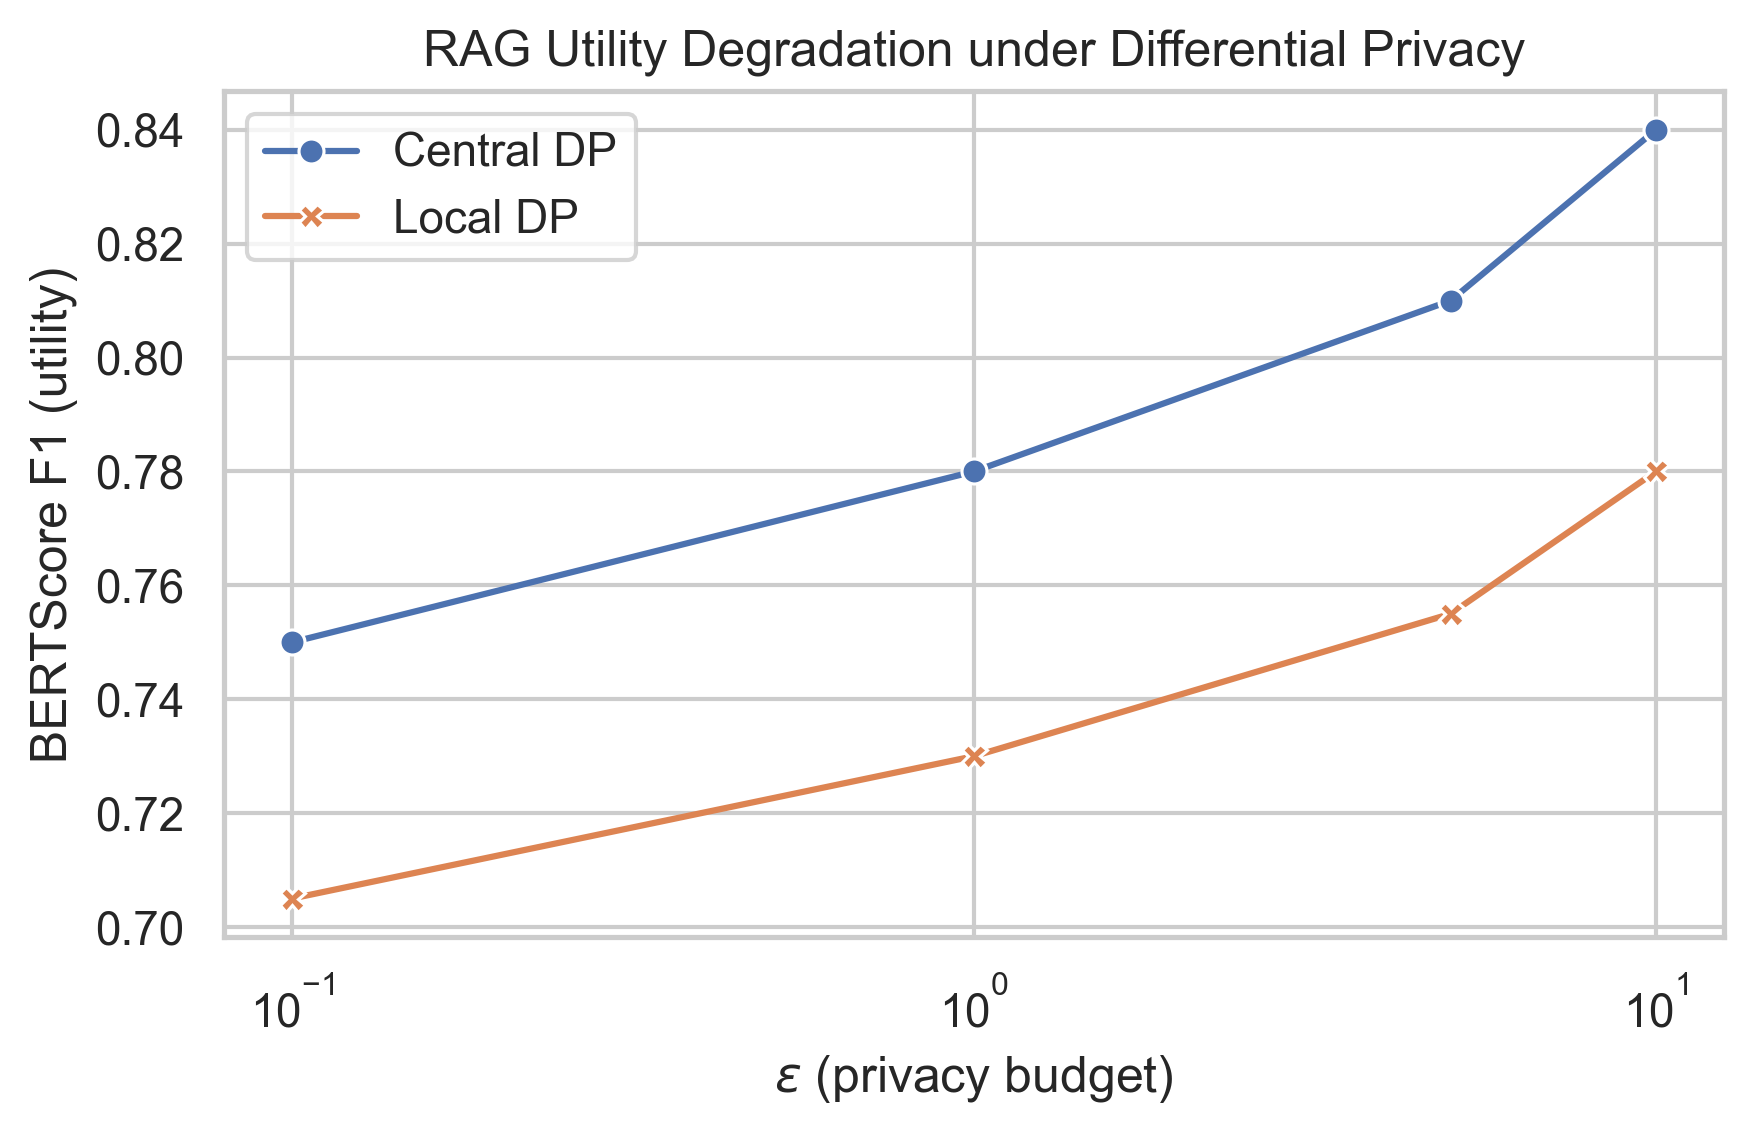
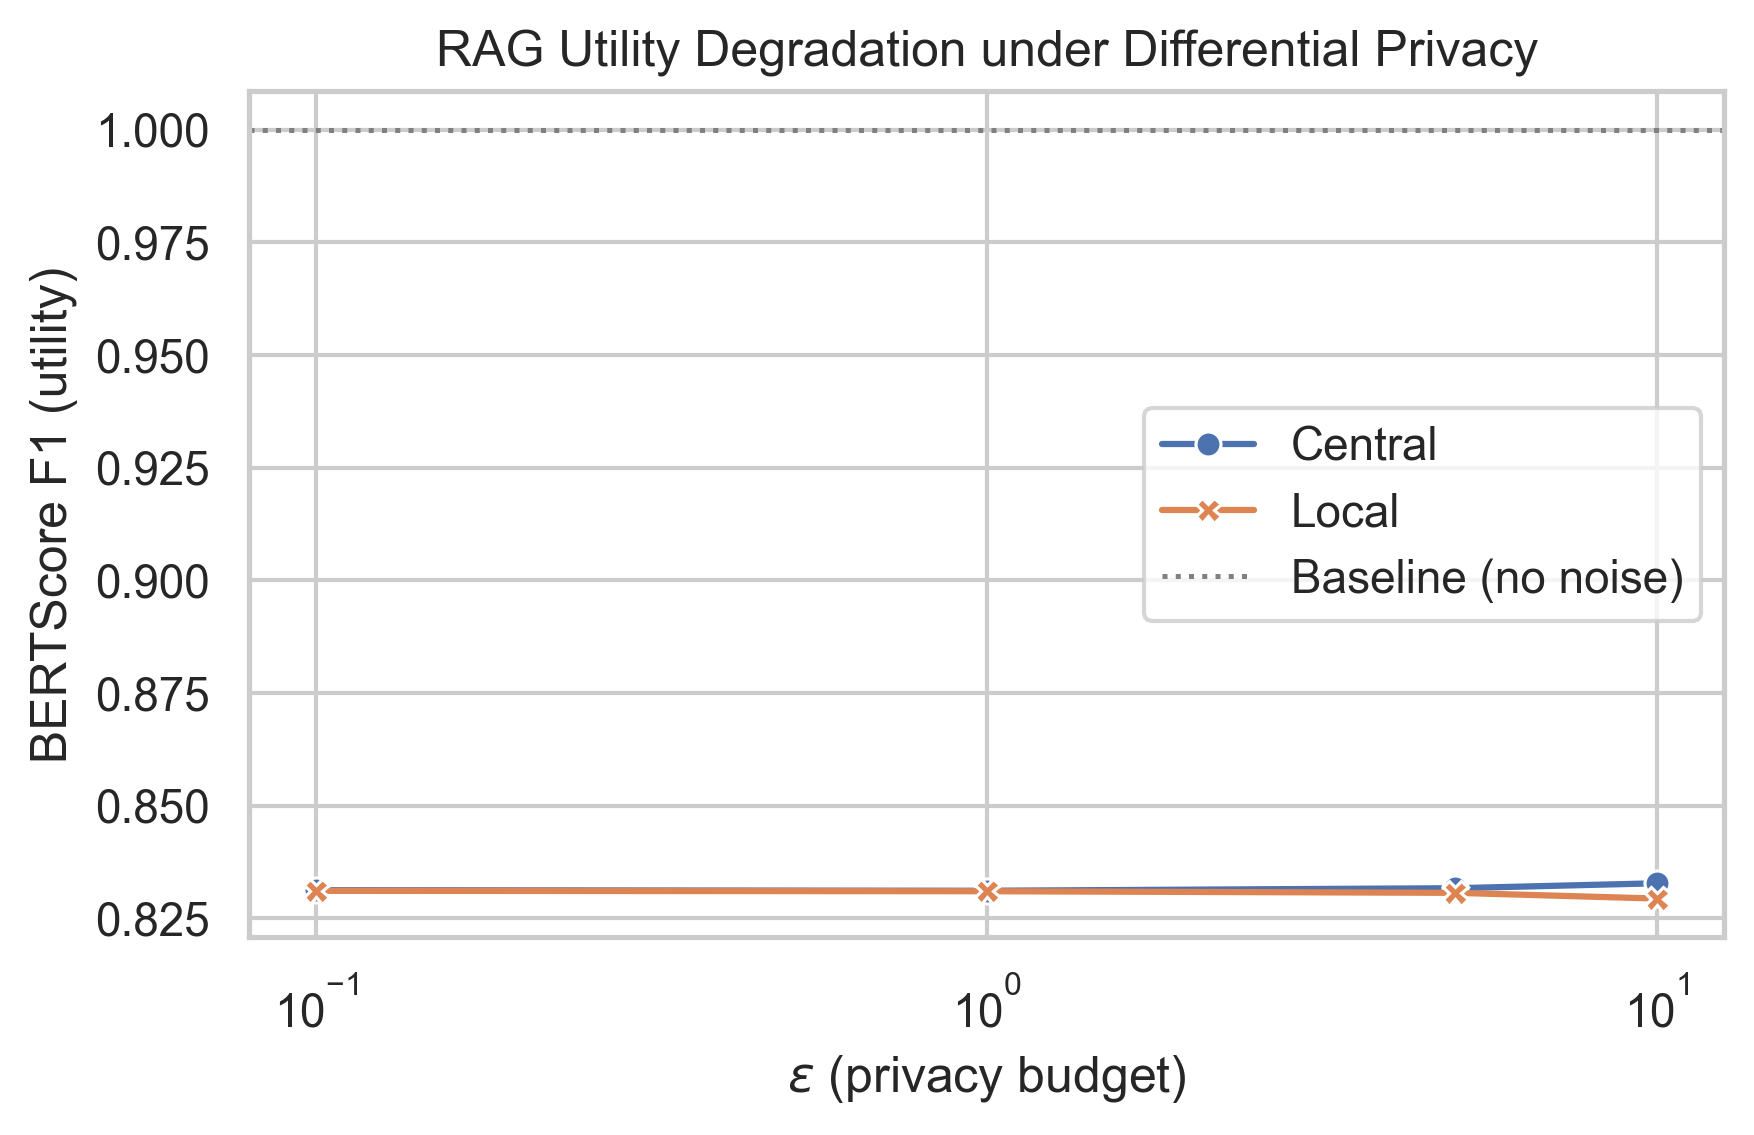
chore: push code updates and generated figures

diff --git a/scripts/run_experiments.py b/scripts/run_experiments.py
@@ -7,8 +7,21 @@ Run from the repository root, e.g.:
 
 from __future__ import annotations
 
+import logging
 import sys
+import time
 from pathlib import Path
+
+logging.basicConfig(
+    level=logging.INFO,
+    format="%(asctime)s | %(levelname)s | %(message)s",
+    datefmt="%H:%M:%S",
+    handlers=[
+        logging.StreamHandler(),
+        logging.FileHandler("data/experiment.log", mode="w", encoding="utf-8"),
+    ],
+)
+log = logging.getLogger(__name__)
 
 # Allow ``python scripts/run_experiments.py`` without a prior PYTHONPATH=.
 _ROOT = Path(__file__).resolve().parents[1]
@@ -29,13 +42,15 @@ from src.models.local_dp import LocalDPProjector
 from src.models.rag_baseline import RAGBaseline
 
 
-def _encode_corpus(model: RAGBaseline, texts: list[str]) -> np.ndarray:
+def _encode_corpus(model: RAGBaseline, texts: list[str], label: str) -> np.ndarray:
     """Helper: ST encoder, L2-norm, float32, shape ``(n, 384)``."""
+    log.info("Encoding start | phase=%s | texts=%d", label, len(texts))
     arr = model.model.encode(
         list(texts),
         normalize_embeddings=True,
         show_progress_bar=False,
     )
+    log.info("Encoding finished | phase=%s | texts=%d", label, len(texts))
     return np.asarray(arr, dtype=np.float32)
 
 
@@ -47,6 +62,7 @@ def _eval_mechanism(
     lira: LiRAMembershipInference,
     inv: EmbeddingInversion,
     util: UtilityEvaluator,
+    label: str,
 ) -> dict[str, float]:
     """Run MIA, inversion, and BERTScore evaluation on a batch of embeddings.
 
@@ -77,7 +93,9 @@ def _eval_mechanism(
     for j in range(embs.shape[0]):
         cands.append(inv.nearest_neighbor_lookup(embs[j], orig_by_row[j])["retrieved_text"])
         refs.append(orig_by_row[j])
+    log.info("BERTScore starting — this may take several minutes on CPU | %s", label)
     bs = util.compute_bertscore(references=refs, candidates=cands)
+    log.info("BERTScore finished | %s", label)
 
     return {
         "tpr_mia": tpr,
@@ -90,12 +108,24 @@ def _eval_mechanism(
 
 def main() -> None:
     """70/30 target vs. shadow, LiRA, inversion ROUGE, and BERTScore utility by ε."""
+    start_time = time.time()
     # Global seeds for full reproducibility of noise draws, not just data splits.
     np.random.seed(0)
     torch.manual_seed(0)
 
+    log.info("Experiment script starting")
     loader = ChatDoctorLoader("data")
     all_texts = loader.load_data()
+    initial_corpus_size = len(all_texts)
+    log.info("Corpus loaded | texts_before_cap=%d", initial_corpus_size)
+    # Cap corpus size for CPU-feasible runtime; sufficient for stable LiRA statistics
+    MAX_CORPUS = 5000
+    if len(all_texts) > MAX_CORPUS:
+        import random
+
+        random.seed(42)
+        all_texts = random.sample(all_texts, MAX_CORPUS)
+    log.info("Corpus ready | texts_after_cap=%d | max_corpus=%d", len(all_texts), MAX_CORPUS)
     n = len(all_texts)
     if n < 4:
         msg = f"Need at least 4 lines for MIA splits; got {n}."
@@ -117,10 +147,10 @@ def main() -> None:
     )
 
     rag = RAGBaseline()
-    e_sm = _encode_corpus(rag, sm_text)
-    e_snm = _encode_corpus(rag, snm_text)
-    e_tm = _encode_corpus(rag, tm_text)
-    e_tnm = _encode_corpus(rag, tnm_text)
+    e_sm = _encode_corpus(rag, sm_text, "shadow members")
+    e_snm = _encode_corpus(rag, snm_text, "shadow non-members")
+    e_tm = _encode_corpus(rag, tm_text, "target members")
+    e_tnm = _encode_corpus(rag, tnm_text, "target non-members")
 
     target_embs = np.vstack([e_tm, e_tnm])
     target_labels = np.concatenate(
@@ -129,12 +159,14 @@ def main() -> None:
             np.zeros(e_tnm.shape[0], dtype=np.int64),
         ]
     )
-    all_clean = _encode_corpus(rag, all_texts)
+    all_clean = _encode_corpus(rag, all_texts, "clean reference corpus")
     # Row-aligned texts for the global retrieval index.
     line_texts: list[str] = list(all_texts)
 
     lira = LiRAMembershipInference(n_shadow_models=16)
+    log.info("LiRA shadow training starting | shadow_models=%d", lira.n_shadow_models)
     lira.train_shadow_models(e_sm, e_snm)
+    log.info("LiRA shadow training finished | shadow_models=%d", lira.n_shadow_models)
 
     # Fixed 100 target rows to compare ROUGE across ε without resampling noise.
     rng = np.random.default_rng(42)
@@ -149,33 +181,53 @@ def main() -> None:
     inv = EmbeddingInversion(
         line_texts, np.ascontiguousarray(all_clean, dtype=np.float32)
     )
+    log.info("Loading BERTScore model (roberta-large) — one-time load, this may take a few minutes")
     util = UtilityEvaluator()
 
     rows: list[dict[str, float | str]] = []
 
     # --- Baseline: unperturbed embeddings (epsilon = inf) ---
+    log.info("Baseline evaluation starting")
     baseline_embs = np.copy(target_embs)
     baseline_metrics = _eval_mechanism(
-        baseline_embs, target_labels, orig_by_row, sample_i, lira, inv, util
+        baseline_embs,
+        target_labels,
+        orig_by_row,
+        sample_i,
+        lira,
+        inv,
+        util,
+        "Baseline",
     )
     rows.append({"epsilon": float("inf"), "mechanism": "Baseline", **baseline_metrics})
+    log.info("Baseline evaluation finished")
 
     # --- Privacy sweep ---
     epsilons = [0.1, 1.0, 5.0, 10.0]
 
     for eps in epsilons:
         # Central DP
+        log.info("Evaluation starting | epsilon=%s | mechanism=Central", eps)
         central = CentralDPMechanism(epsilon=float(eps), delta=1e-5)
         noisy_c = np.asarray(
             central.apply_noise(np.asarray(target_embs, dtype=np.float64)),
             dtype=np.float32,
         )
         central_metrics = _eval_mechanism(
-            noisy_c, target_labels, orig_by_row, sample_i, lira, inv, util
+            noisy_c,
+            target_labels,
+            orig_by_row,
+            sample_i,
+            lira,
+            inv,
+            util,
+            f"epsilon={eps} mechanism=Central",
         )
         rows.append({"epsilon": eps, "mechanism": "Central", **central_metrics})
+        log.info("Evaluation finished | epsilon=%s | mechanism=Central", eps)
 
         # Local DP
+        log.info("Evaluation starting | epsilon=%s | mechanism=Local", eps)
         local = LocalDPProjector(
             input_dim=384, bottleneck_dim=16, epsilon=float(eps), delta=1e-5
         )
@@ -184,9 +236,17 @@ def main() -> None:
             t_in = torch.from_numpy(np.ascontiguousarray(target_embs, dtype=np.float32))
             noisy_l = local(t_in).numpy().astype(np.float32)
         local_metrics = _eval_mechanism(
-            noisy_l, target_labels, orig_by_row, sample_i, lira, inv, util
+            noisy_l,
+            target_labels,
+            orig_by_row,
+            sample_i,
+            lira,
+            inv,
+            util,
+            f"epsilon={eps} mechanism=Local",
         )
         rows.append({"epsilon": eps, "mechanism": "Local", **local_metrics})
+        log.info("Evaluation finished | epsilon=%s | mechanism=Local", eps)
 
     out_dir = _ROOT / "data"
     out_dir.mkdir(parents=True, exist_ok=True)
@@ -205,7 +265,15 @@ def main() -> None:
     ]
     out_path = out_dir / "results.csv"
     df.to_csv(out_path, index=False)
-    print(f"Wrote {out_path} with {len(df)} rows.")
+    log.info("Results written | path=%s | rows=%d", out_path.resolve(), len(df))
+    elapsed = time.time() - start_time
+    elapsed_minutes = int(elapsed // 60)
+    elapsed_seconds = int(elapsed % 60)
+    log.info(
+        "Experiment script finished | elapsed=%dm %02ds",
+        elapsed_minutes,
+        elapsed_seconds,
+    )
 
 
 if __name__ == "__main__":

diff --git a/src/evaluation/utility.py b/src/evaluation/utility.py
@@ -22,11 +22,16 @@ class UtilityEvaluator:
             metric_model: HuggingFace model id, e.g. ``roberta-large``.
         """
         self.metric_model = metric_model
+        self._scorer = bert_score.BERTScorer(
+            model_type=self.metric_model,
+            lang="en",
+            rescale_with_baseline=False,
+        )
 
     def compute_bertscore(
         self, references: list[str], candidates: list[str]
     ) -> dict[str, Any]:
-        """Compute mean P/R/F1 with :func:`bert_score.score`.
+        """Compute mean P/R/F1 with a cached :class:`bert_score.BERTScorer`.
 
         Args:
             references: One gold string per row (e.g. original prompt text).
@@ -35,13 +40,7 @@ class UtilityEvaluator:
         Returns:
             ``{"precision", "recall", "f1"}`` with scalar means over the micro-batch.
         """
-        p, r, f1 = bert_score.score(
-            candidates,
-            references,
-            model_type=self.metric_model,
-            lang="en",
-            verbose=False,
-        )
+        p, r, f1 = self._scorer.score(candidates, references)
         return {
             "precision": p.mean().item(),
             "recall": r.mean().item(),

diff --git a/src/data_loader.py b/src/data_loader.py
@@ -73,6 +73,11 @@ def _read_strings_from_json(path: Path) -> list[str]:
             t = row.get("text") or row.get("utterance") or row.get("content")
             if t is not None and isinstance(t, str):
                 out.append(t)
+            elif row.get("input") or row.get("output"):
+                instruction = str(row.get("instruction", "")).strip()
+                patient_input = str(row.get("input", "")).strip()
+                doctor_output = str(row.get("output", "")).strip()
+                out.append(f"{instruction} Patient: {patient_input} Doctor: {doctor_output}")
             else:
                 p = str(row.get("patient", "Patient: [unknown]"))
                 d = str(row.get("doctor", "Doctor: [unknown]"))